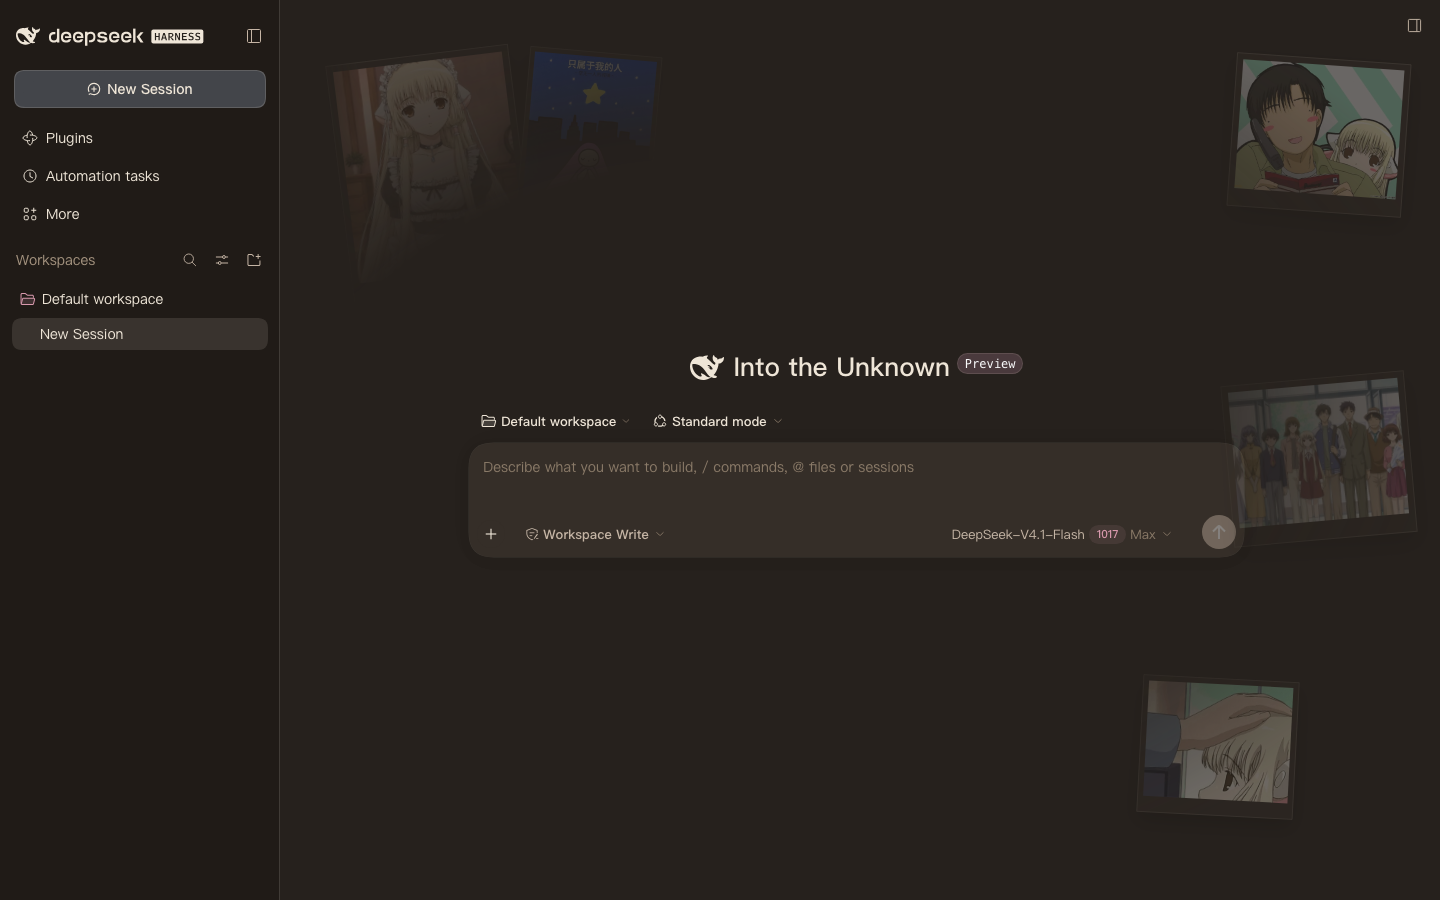
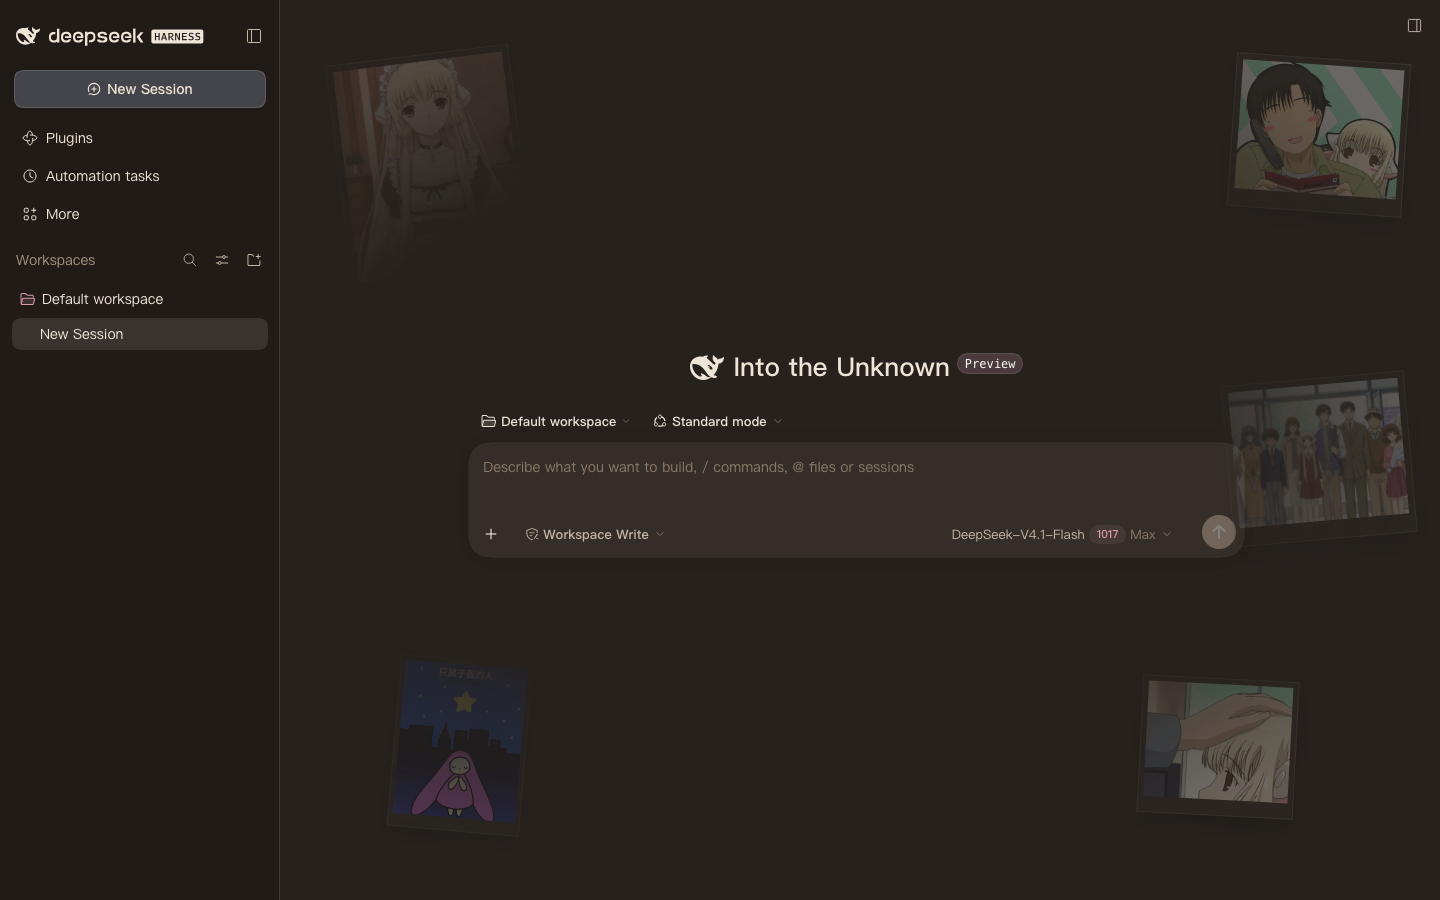
feat: 绘本照片移到左下角并支持 bottom 锚点

Changed region(s): [[0.25, 0.7778, 0.375, 0.9333], [0.3438, 0.0622, 0.4688, 0.0933]]

diff --git a/lib/client.js b/lib/client.js
@@ -35,7 +35,7 @@ window.__ModuleLoader__.load({
     // wide 标记的照片只在宽窗口显示(窄窗口避免压住内容)
     var WALL = [
       { asset: 'wall-chii-hero', left: 'calc(310px + 2%)', y: '6%', r: '-7deg', s: 1, portrait: true, wide: true },
-      { asset: 'wall-chii-picturebook', left: 'calc(310px + 13%)', y: '2%', r: '5deg', s: 0.72, portrait: true, wide: true },
+      { asset: 'wall-chii-picturebook', left: 'calc(310px + 4%)', bottom: '4%', r: '5deg', s: 0.72, portrait: true, wide: true },
       { asset: 'wall-chii-hideki-chibi', right: '2%', y: '6%', r: '4deg', s: 0.95 },
       { asset: 'wall-chobits-family', right: '2%', y: '42%', r: '-5deg', s: 1, tallOnly: true },
       { asset: 'wall-chii-headpat', right: '9%', y: '74%', r: '3deg', s: 0.85 }
@@ -101,7 +101,8 @@ window.__ModuleLoader__.load({
           (item.tallOnly ? ' chobits-chii-photo--tall-only' : '')
         if (item.left !== undefined) photo.style.left = item.left
         if (item.right !== undefined) photo.style.right = item.right
-        photo.style.top = item.y
+        if (item.bottom !== undefined) photo.style.bottom = item.bottom
+        else photo.style.top = item.y
         photo.style.setProperty('--r', item.r || '0deg')
         photo.style.setProperty('--s', String(item.s === undefined ? 1 : item.s))
         photo.style.setProperty('--ar', item.portrait ? '4 / 5' : '5 / 4')

diff --git a/src/client.template.js b/src/client.template.js
@@ -35,7 +35,7 @@ window.__ModuleLoader__.load({
     // wide 标记的照片只在宽窗口显示(窄窗口避免压住内容)
     var WALL = [
       { asset: 'wall-chii-hero', left: 'calc(310px + 2%)', y: '6%', r: '-7deg', s: 1, portrait: true, wide: true },
-      { asset: 'wall-chii-picturebook', left: 'calc(310px + 13%)', y: '2%', r: '5deg', s: 0.72, portrait: true, wide: true },
+      { asset: 'wall-chii-picturebook', left: 'calc(310px + 4%)', bottom: '4%', r: '5deg', s: 0.72, portrait: true, wide: true },
       { asset: 'wall-chii-hideki-chibi', right: '2%', y: '6%', r: '4deg', s: 0.95 },
       { asset: 'wall-chobits-family', right: '2%', y: '42%', r: '-5deg', s: 1, tallOnly: true },
       { asset: 'wall-chii-headpat', right: '9%', y: '74%', r: '3deg', s: 0.85 }
@@ -101,7 +101,8 @@ window.__ModuleLoader__.load({
           (item.tallOnly ? ' chobits-chii-photo--tall-only' : '')
         if (item.left !== undefined) photo.style.left = item.left
         if (item.right !== undefined) photo.style.right = item.right
-        photo.style.top = item.y
+        if (item.bottom !== undefined) photo.style.bottom = item.bottom
+        else photo.style.top = item.y
         photo.style.setProperty('--r', item.r || '0deg')
         photo.style.setProperty('--s', String(item.s === undefined ? 1 : item.s))
         photo.style.setProperty('--ar', item.portrait ? '4 / 5' : '5 / 4')
